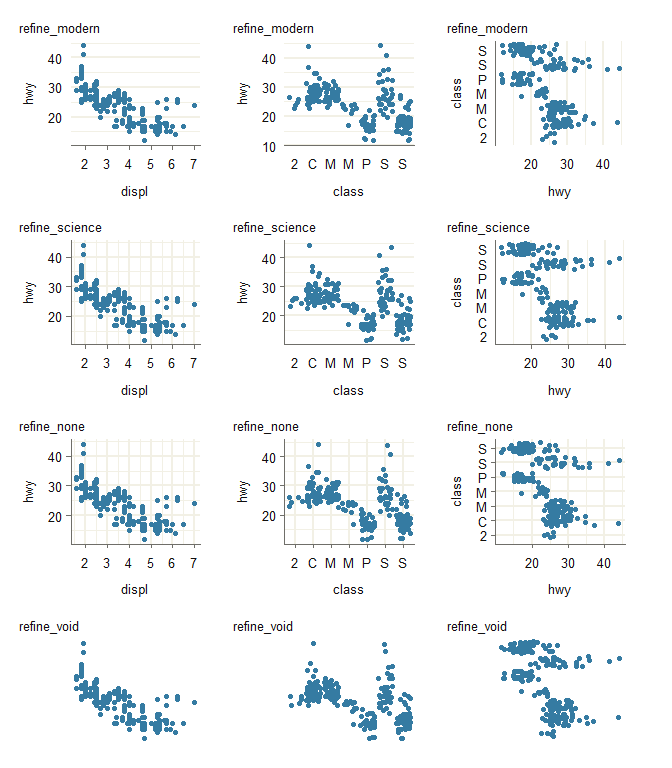
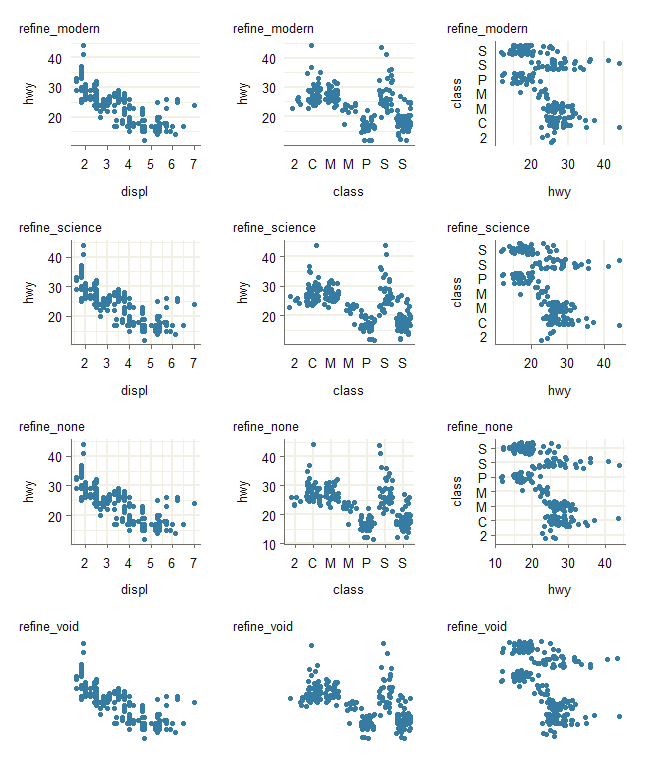
Update

diff --git a/README.md b/README.md
@@ -26,7 +26,8 @@ pak::pak("davidhodge931/ggrefine")
 ggrefine provides a set of complete ggplot2 themes and functions to
 refine these based on the particulars of the plot.
 
-The themes use the inky flexoki colours developed by Steph Ango.
+The themes use the inky [flexoki colours](https://stephango.com/flexoki)
+developed by Steph Ango.
 
 ``` r
 library(ggplot2)
@@ -51,18 +52,18 @@ p_dark <- mpg |>
   ) +
   scale_y_continuous(expand = expansion(mult = c(0, 0.05)))
 
-p_white   <- p_light + theme_white()   + refine_modern() + labs(title = "theme_white")
-p_silver  <- p_light + theme_silver()  + refine_modern() + labs(title = "theme_silver")
-p_oat     <- p_light + theme_oat()     + refine_modern() + labs(title = "theme_oat")
-p_red     <- p_light + theme_red()     + refine_modern() + labs(title = "theme_red")
-p_orange  <- p_light + theme_orange()  + refine_modern() + labs(title = "theme_orange")
-p_yellow  <- p_light + theme_yellow()  + refine_modern() + labs(title = "theme_yellow")
-p_green   <- p_light + theme_green()   + refine_modern() + labs(title = "theme_green")
-p_cyan    <- p_light + theme_cyan()    + refine_modern() + labs(title = "theme_cyan")
-p_blue    <- p_light + theme_blue()    + refine_modern() + labs(title = "theme_blue")
-p_purple  <- p_light + theme_purple()  + refine_modern() + labs(title = "theme_purple")
-p_magenta <- p_light + theme_magenta() + refine_modern() + labs(title = "theme_magenta")
-p_black   <- p_dark  + theme_black()   + refine_modern() + labs(title = "theme_black")
+p_white   <- p_light + theme_white()   + refine_modern(x_type = "continuous", y_type = "continuous") + labs(title = "theme_white")
+p_silver  <- p_light + theme_silver()  + refine_modern(x_type = "continuous", y_type = "continuous") + labs(title = "theme_silver")
+p_oat     <- p_light + theme_oat()     + refine_modern(x_type = "continuous", y_type = "continuous") + labs(title = "theme_oat")
+p_red     <- p_light + theme_red()     + refine_modern(x_type = "continuous", y_type = "continuous") + labs(title = "theme_red")
+p_orange  <- p_light + theme_orange()  + refine_modern(x_type = "continuous", y_type = "continuous") + labs(title = "theme_orange")
+p_yellow  <- p_light + theme_yellow()  + refine_modern(x_type = "continuous", y_type = "continuous") + labs(title = "theme_yellow")
+p_green   <- p_light + theme_green()   + refine_modern(x_type = "continuous", y_type = "continuous") + labs(title = "theme_green")
+p_cyan    <- p_light + theme_cyan()    + refine_modern(x_type = "continuous", y_type = "continuous") + labs(title = "theme_cyan")
+p_blue    <- p_light + theme_blue()    + refine_modern(x_type = "continuous", y_type = "continuous") + labs(title = "theme_blue")
+p_purple  <- p_light + theme_purple()  + refine_modern(x_type = "continuous", y_type = "continuous") + labs(title = "theme_purple")
+p_magenta <- p_light + theme_magenta() + refine_modern(x_type = "continuous", y_type = "continuous") + labs(title = "theme_magenta")
+p_black   <- p_dark  + theme_black()   + refine_modern(x_type = "continuous", y_type = "continuous") + labs(title = "theme_black")
 ```
 
 ``` r
@@ -108,12 +109,12 @@ set_theme(new = theme_white())
 
 p_continuous <- mpg |>
   ggplot(aes(x = displ, y = hwy)) +
-  geom_point(shape = 21) 
+  geom_point(shape = 21)
 
 p_discrete_x <- mpg |>
   ggplot(aes(x = class, y = hwy)) +
   geom_jitter(shape = 21) +
-  scale_x_discrete(labels = \(x) stringr::str_to_upper(stringr::str_sub(x, start = 1, 1))) 
+  scale_x_discrete(labels = \(x) stringr::str_to_upper(stringr::str_sub(x, start = 1, 1)))
 
 p_discrete_y <- mpg |>
   ggplot(aes(x = hwy, y = class)) +
@@ -121,22 +122,21 @@ p_discrete_y <- mpg |>
   scale_y_discrete(labels = \(x) stringr::str_to_upper(stringr::str_sub(x, start = 1, 1)))
 
 wrap_plots(
-  p_continuous + refine_modern(focus = "x", x_type = "continuous", y_type = "continuous") + labs(title = "refine_modern"),
-  p_discrete_x + refine_modern(focus = "x", x_type = "discrete",   y_type = "continuous") + labs(title = "refine_modern"),
-  p_discrete_y + refine_modern(focus = "y", x_type = "continuous",  y_type = "discrete")  + labs(title = "refine_modern"),
-  
-  p_continuous + refine_science(focus = "x", x_type = "continuous", y_type = "continuous") + labs(title = "refine_science"),
-  p_discrete_x + refine_science(focus = "x", x_type = "discrete",   y_type = "continuous") + labs(title = "refine_science"),
-  p_discrete_y + refine_science(focus = "y", x_type = "continuous",  y_type = "discrete")  + labs(title = "refine_science"),
-  
-  p_continuous + refine_none(focus = "x", x_type = "continuous", y_type = "continuous") + labs(title = "refine_none"),
-  p_discrete_x + refine_none(focus = "x", x_type = "discrete",   y_type = "continuous") + labs(title = "refine_none"),
-  p_discrete_y + refine_none(focus = "y", x_type = "continuous",  y_type = "discrete")  + labs(title = "refine_none"),
-  
-  p_continuous + refine_void(focus = "x", x_type = "continuous", y_type = "continuous") + labs(title = "refine_void"),
-  p_discrete_x + refine_void(focus = "x", x_type = "discrete",   y_type = "continuous") + labs(title = "refine_void"),
-  p_discrete_y + refine_void(focus = "y", x_type = "continuous",  y_type = "discrete")  + labs(title = "refine_void"),
-  
+  p_continuous + refine_modern(x_type = "continuous", y_type = "continuous") + labs(title = "refine_modern"),
+  p_discrete_x + refine_modern(x_type = "discrete",   y_type = "continuous") + labs(title = "refine_modern"),
+  p_discrete_y + refine_modern(x_type = "continuous",  y_type = "discrete")  + labs(title = "refine_modern"),
+
+  p_continuous + refine_science(x_type = "continuous", y_type = "continuous") + labs(title = "refine_science"),
+  p_discrete_x + refine_science(x_type = "discrete",   y_type = "continuous") + labs(title = "refine_science"),
+  p_discrete_y + refine_science(x_type = "continuous",  y_type = "discrete")  + labs(title = "refine_science"),
+
+  p_continuous + refine_none(x_type = "continuous", y_type = "continuous") + labs(title = "refine_none"),
+  p_discrete_x + refine_none(x_type = "discrete",   y_type = "continuous") + labs(title = "refine_none"),
+  p_discrete_y + refine_none(x_type = "continuous",  y_type = "discrete")  + labs(title = "refine_none"),
+
+  p_continuous + refine_void(x_type = "continuous", y_type = "continuous") + labs(title = "refine_void"),
+  p_discrete_x + refine_void(x_type = "discrete",   y_type = "continuous") + labs(title = "refine_void"),
+  p_discrete_y + refine_void(x_type = "continuous",  y_type = "discrete")  + labs(title = "refine_void"),
   ncol = 3
 )
 ```
